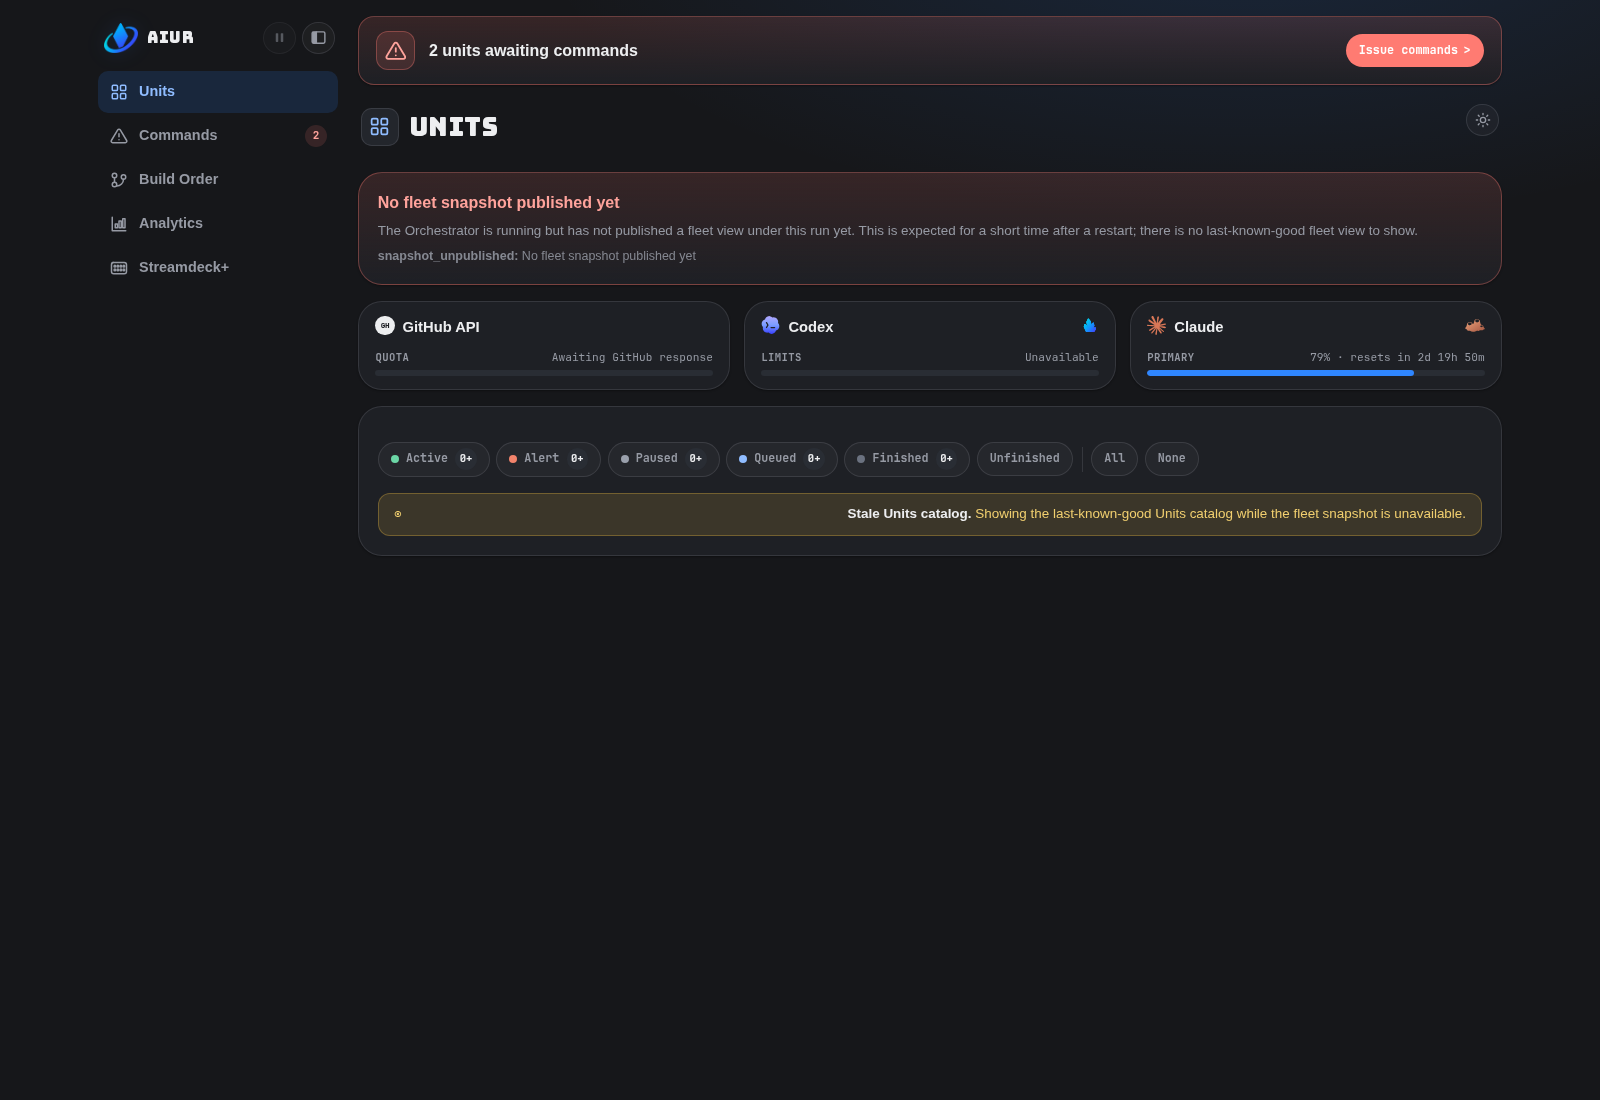
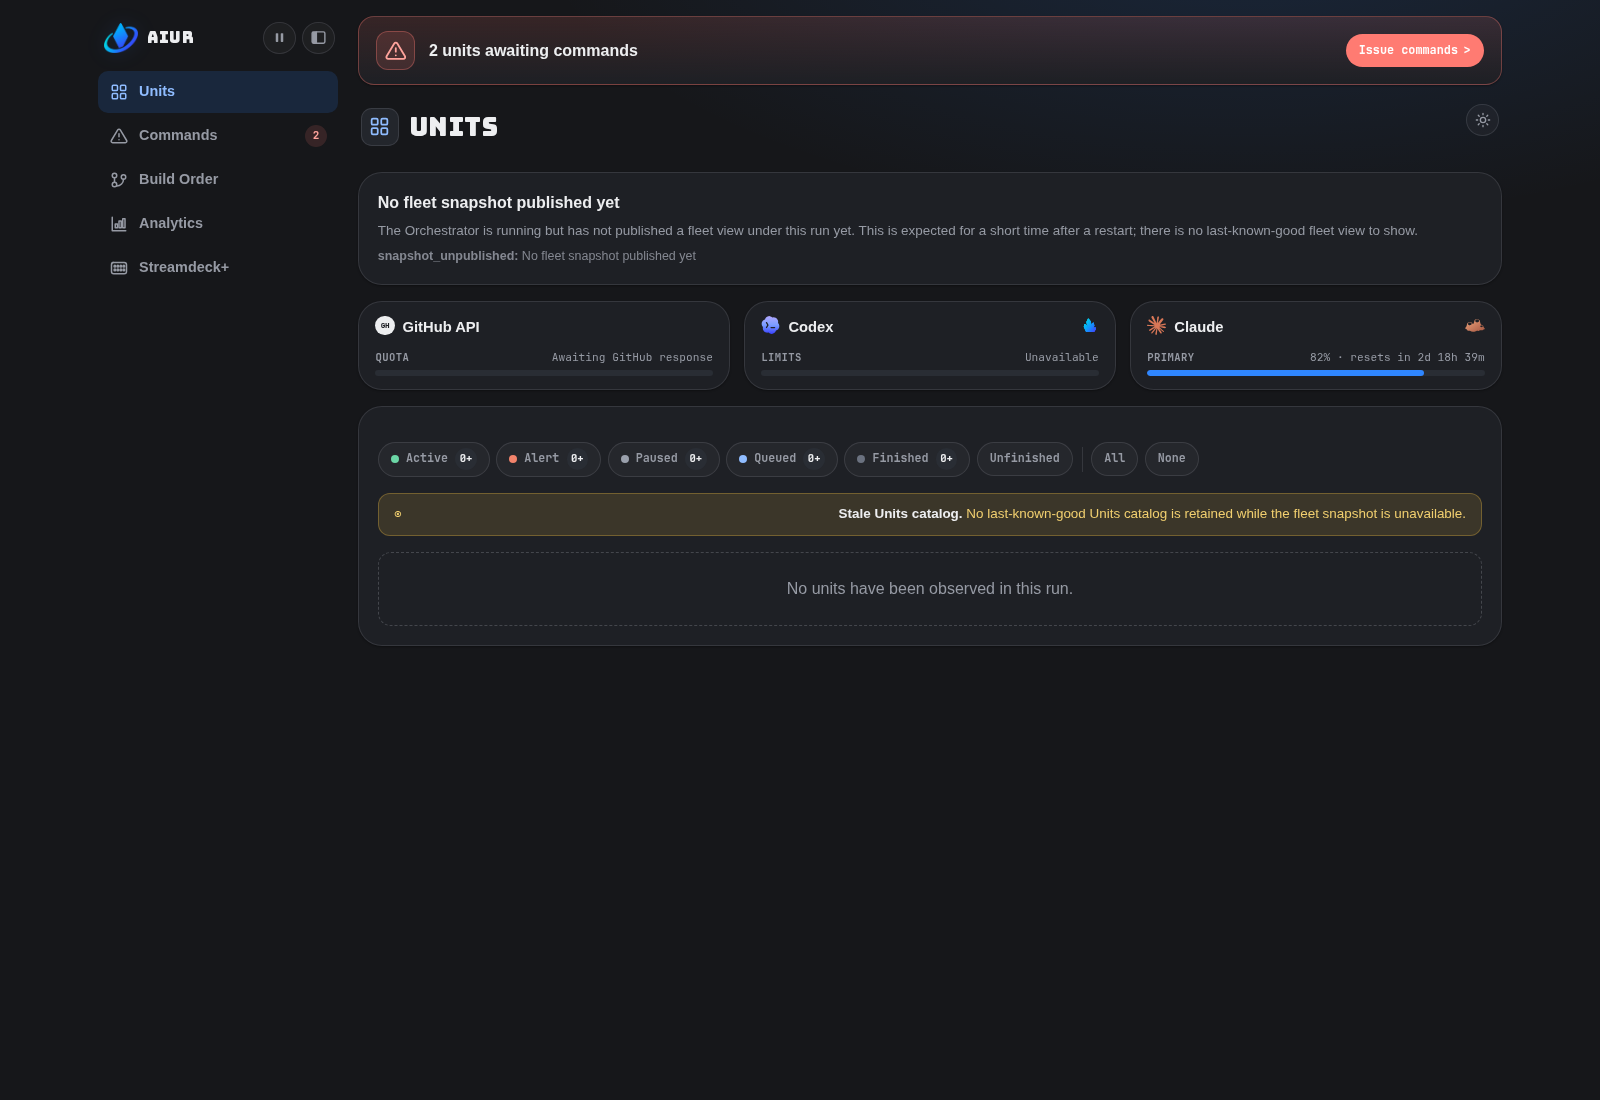
Make staleness follow age, and never state an unobserved cause
Review of #1814 found the fix reintroducing, one function over, the defect
it exists to remove, and leaving one state reporting less than the panel it
replaced.

- A stale catalog with nothing retained rendered its banner over a blank
  area, and the banner claimed to be "showing the last-known-good Units
  catalog" while showing nothing. The empty state now survives the stale
  case, and the message says what is true: no last-known-good catalog is
  retained. `zero_result?` keeps the filter-hides-everything case.

- `Overview.error/1` asserted "The Orchestrator is not reachable" for any
  code it did not recognise, including `snapshot_unavailable`, which the
  read-model composition raises while the Orchestrator is fine. Each detail
  line is now derived from its code, and the unmapped case names no
  subsystem at all.

- A run that has not published its first snapshot is an expected moment
  after a restart, so it drops the incident colour: `role="status"` alone
  only corrected the screen-reader reading.

- Staleness no longer requires a backlogged mailbox. An Orchestrator that
  wedges after draining its mailbox published nothing and carried no
  backlog, so the depth-gated rule served an arbitrarily old fleet view as
  current with no banner and no age -- the same "stale renders as current"
  failure this page exists to prevent, and one this repo has already
  shipped once. Age now decides beyond a 120s ceiling (four times the 30s
[…]

Changed region(s): [[0.5312, 0.4636, 0.75, 0.4945], [0.5, 0.5255, 0.6562, 0.5564], [0.2188, 0.1545, 0.375, 0.1855]]

diff --git a/src/priv/static/dashboard.css b/src/priv/static/dashboard.css
@@ -1869,6 +1869,18 @@ html[data-theme="light"] .toggle-icon .moon {
   opacity: 0.85;
 }
 
+/* An expected moment must not wear incident colour. A run that has not
+   published its first snapshot yet is normal after a restart, so it keeps the
+   card layout and drops the blocking red. */
+.error-card.notice {
+  border-color: var(--line);
+  background: var(--surface);
+}
+
+.error-card.notice h2 {
+  color: var(--fg);
+}
+
 .decisions-banner {
   display: flex;
   align-items: center;
